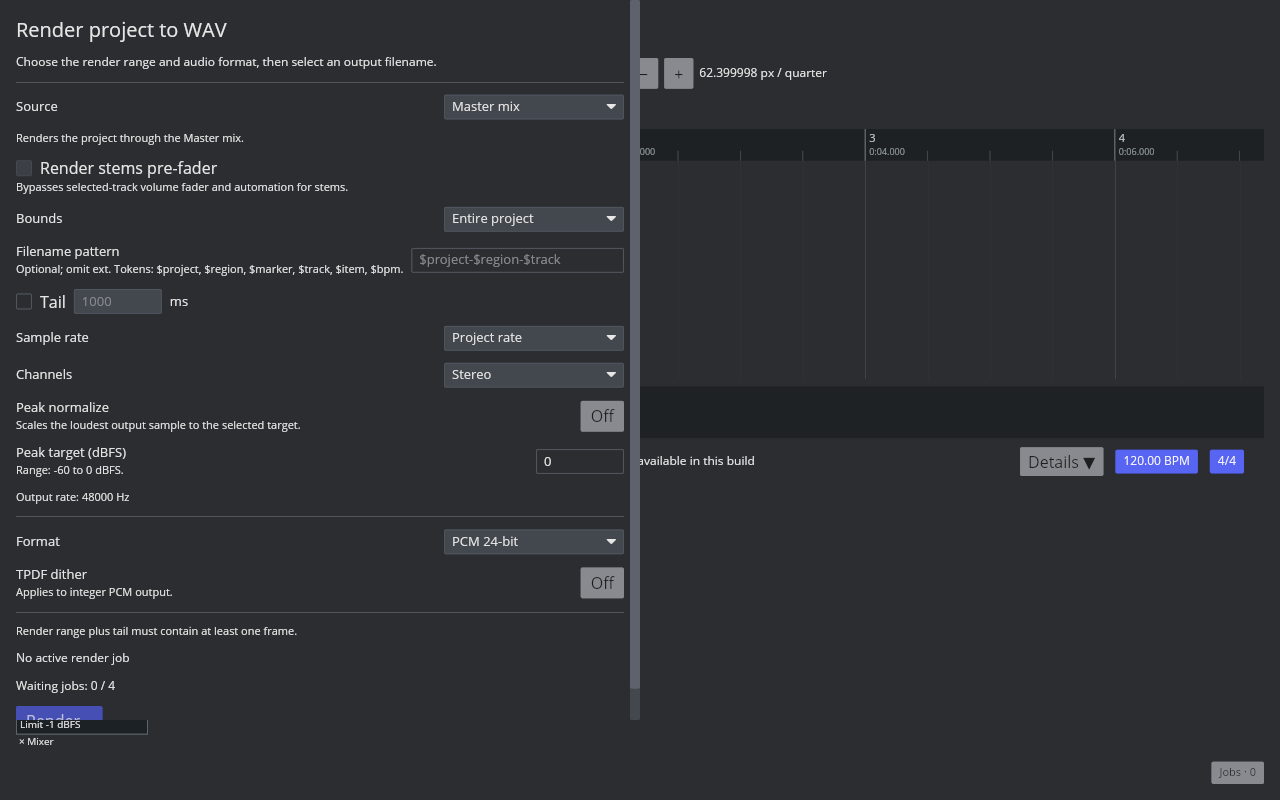
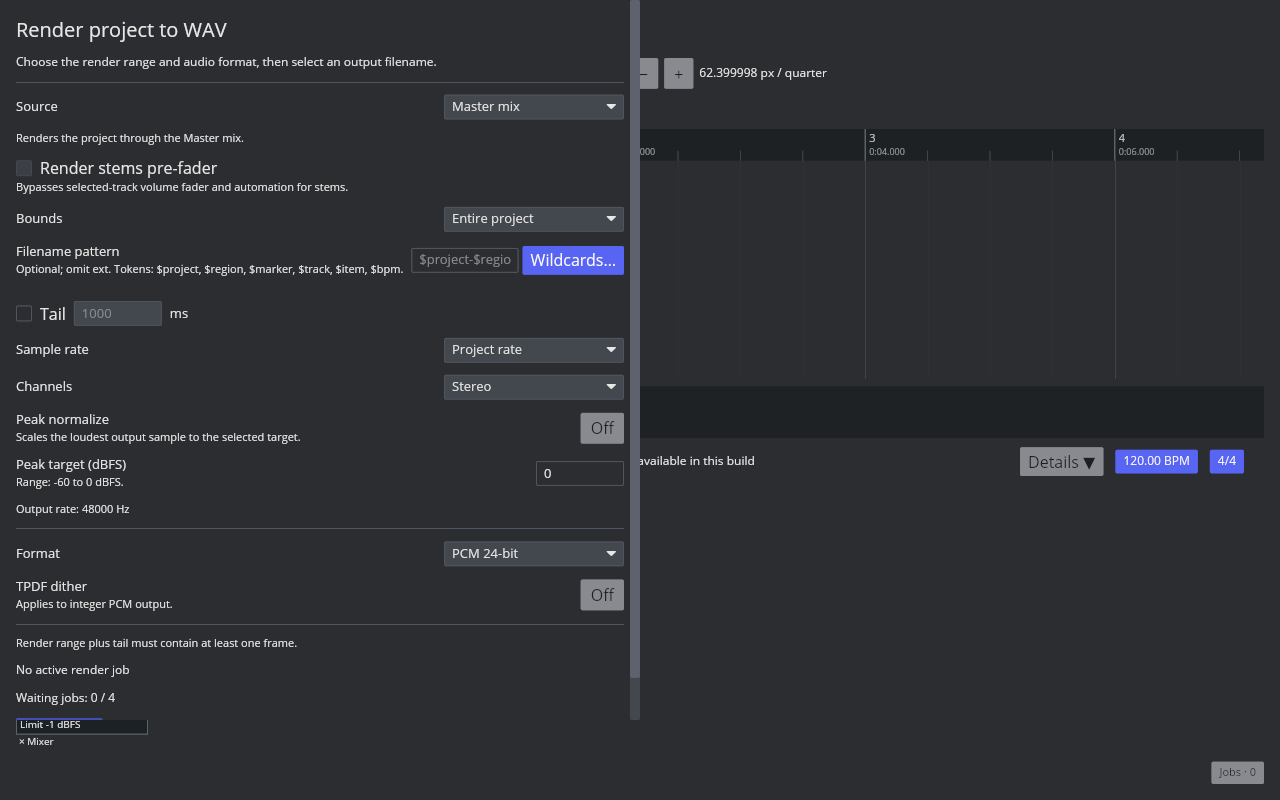
feat(render): add wildcard token picker

diff --git a/crates/aaadaw/src/app/audio_export.rs b/crates/aaadaw/src/app/audio_export.rs
@@ -41,6 +41,38 @@ pub(crate) enum RenderSource {
     RegionRenderMatrix,
 }
 
+#[derive(Clone, Copy, Debug, Eq, PartialEq)]
+pub(crate) enum RenderFilenameWildcard {
+    Project,
+    Region,
+    Marker,
+    Track,
+    Item,
+    Bpm,
+}
+
+impl RenderFilenameWildcard {
+    pub(crate) const ALL: [Self; 6] = [
+        Self::Project,
+        Self::Region,
+        Self::Marker,
+        Self::Track,
+        Self::Item,
+        Self::Bpm,
+    ];
+
+    pub(crate) const fn token(self) -> &'static str {
+        match self {
+            Self::Project => "$project",
+            Self::Region => "$region",
+            Self::Marker => "$marker",
+            Self::Track => "$track",
+            Self::Item => "$item",
+            Self::Bpm => "$bpm",
+        }
+    }
+}
+
 impl RenderSource {
     pub(crate) const ALL: [Self; 6] = [
         Self::MasterMix,
@@ -812,6 +844,7 @@ pub(super) struct RenderDialogState {
     pub(super) tail_duration_text: String,
     pub(super) stems_pre_fader: bool,
     pub(super) filename_pattern: String,
+    pub(super) wildcard_menu_open: bool,
 }
 
 #[derive(Debug)]
@@ -840,6 +873,7 @@ impl Default for RenderDialogState {
             tail_duration_text: "1000".to_owned(),
             stems_pre_fader: false,
             filename_pattern: String::new(),
+            wildcard_menu_open: false,
         }
     }
 }
@@ -2390,6 +2424,33 @@ mod tests {
         )
         .expect("region and item tokens should resolve");
         assert_eq!(item_output[0].1, Path::new("/renders/Intro-item_01.wav"));
+    }
+
+    #[test]
+    fn render_wildcard_picker_lists_and_inserts_supported_tokens() {
+        assert_eq!(
+            RenderFilenameWildcard::ALL.map(RenderFilenameWildcard::token),
+            ["$project", "$region", "$marker", "$track", "$item", "$bpm",]
+        );
+
+        let mut app = App::default();
+        let _ = app.update(Message::ToggleRenderWildcardMenu);
+        assert!(app.render_dialog.wildcard_menu_open);
+
+        let _ = app.update(Message::SetRenderFilenamePattern("$project-".to_owned()));
+        let _ = app.update(Message::InsertRenderFilenameWildcard(
+            RenderFilenameWildcard::Track,
+        ));
+        assert_eq!(app.render_dialog.filename_pattern, "$project-$track");
+        assert!(!app.render_dialog.wildcard_menu_open);
+
+        let _ = app.update(Message::InsertRenderFilenameWildcard(
+            RenderFilenameWildcard::Project,
+        ));
+        assert_eq!(
+            app.render_dialog.filename_pattern,
+            "$project-$track$project"
+        );
     }
 
     #[test]

diff --git a/crates/aaadaw/src/app/view/render.rs b/crates/aaadaw/src/app/view/render.rs
@@ -1,6 +1,6 @@
 use super::super::audio_export::{
-    RenderBounds, RenderSampleRate, RenderSource, parse_render_peak_target_centi_dbfs,
-    parse_render_tail_milliseconds,
+    RenderBounds, RenderFilenameWildcard, RenderSampleRate, RenderSource,
+    parse_render_peak_target_centi_dbfs, parse_render_tail_milliseconds,
 };
 use super::super::{App, Message, PathPickerTarget};
 use super::tokens;
@@ -174,17 +174,41 @@ pub(super) fn view(app: &App) -> Element<'_, Message> {
                 .size(11),
             ]
             .spacing(2),
-            text_input(
-                "$project-$region-$track",
-                &app.render_dialog.filename_pattern
-            )
-            .on_input(Message::SetRenderFilenamePattern)
-            .size(13)
-            .padding([4, 8])
-            .width(Length::Fill),
+            row![
+                text_input(
+                    "$project-$region-$track",
+                    &app.render_dialog.filename_pattern
+                )
+                .on_input(Message::SetRenderFilenamePattern)
+                .size(13)
+                .padding([4, 8])
+                .width(Length::Fill),
+                button("Wildcards…")
+                    .on_press(Message::ToggleRenderWildcardMenu)
+                    .padding([4, 8]),
+            ]
+            .spacing(tokens::SPACING_XS)
+            .align_y(Alignment::Center),
         ]
         .spacing(tokens::SPACING_SM)
         .align_y(Alignment::Center),
+        if app.render_dialog.wildcard_menu_open {
+            RenderFilenameWildcard::ALL
+                .into_iter()
+                .fold(
+                    row![text("Insert wildcard:").size(11)],
+                    |tokens, wildcard| {
+                        tokens.push(
+                            button(wildcard.token())
+                                .on_press(Message::InsertRenderFilenameWildcard(wildcard)),
+                        )
+                    },
+                )
+                .spacing(tokens::SPACING_XS)
+                .align_y(Alignment::Center)
+        } else {
+            row![]
+        },
         {
             let fields: Element<'_, Message> =
                 if !selected_media_items && bounds == RenderBounds::CustomTimeRange {

diff --git a/crates/aaadaw/src/app/messages.rs b/crates/aaadaw/src/app/messages.rs
@@ -1,6 +1,6 @@
 #[cfg(feature = "audio-device")]
 use super::SharedPreparedPlayback;
-use super::audio_export::{RenderBounds, RenderSampleRate, RenderSource};
+use super::audio_export::{RenderBounds, RenderFilenameWildcard, RenderSampleRate, RenderSource};
 use super::commands::CommandId;
 use super::{SharedAudioAssetManagementWorker, SharedAudioImportWorker};
 use crate::timeline::TimelineEvent;
@@ -580,6 +580,8 @@ pub(crate) enum Message {
     SetRenderTailEnabled(bool),
     SetRenderTailDuration(String),
     SetRenderFilenamePattern(String),
+    ToggleRenderWildcardMenu,
+    InsertRenderFilenameWildcard(RenderFilenameWildcard),
     FreezeTrack(TrackId),
     FreezeTrackFinished(Result<FreezeTrackResult, String>),
     UnfreezeTrack(TrackId),

diff --git a/crates/aaadaw/src/app/mod.rs b/crates/aaadaw/src/app/mod.rs
@@ -3545,6 +3545,15 @@ impl App {
             Message::SetRenderFilenamePattern(value) => {
                 self.render_dialog.filename_pattern = value;
             }
+            Message::ToggleRenderWildcardMenu => {
+                self.render_dialog.wildcard_menu_open = !self.render_dialog.wildcard_menu_open;
+            }
+            Message::InsertRenderFilenameWildcard(wildcard) => {
+                self.render_dialog
+                    .filename_pattern
+                    .push_str(wildcard.token());
+                self.render_dialog.wildcard_menu_open = false;
+            }
             Message::RecordingOffsetTextChanged(value) => {
                 self.audio_recording_offset_query = Some(value);
             }

diff --git a/docs/verification/reaper-parity/render-filename-patterns.md b/docs/verification/reaper-parity/render-filename-patterns.md
@@ -2,10 +2,10 @@
 
 Linux REAPER 7.82 / Default 7 places a `File name` pattern field and `Wildcards` button in the Render window. The captured selected-item case uses `$region-$item` and resolves to `bounds-ui-Region 2-item_02.wav`; the reference dialog and measured output are archived in [the native screenshot](images/render-selected-items-native.png) and [the output record](render-selected-items-native.tsv). The native Region Render Matrix fixture uses `$region-$track` and emits `Intro-Master.wav`, `Intro-Drums.wav`, `Intro-Guitar.wav`, and `Verse-Bass.wav`.
 
-AAADAW now provides an optional filename-pattern field in its Render window. A chosen output path supplies the directory and extension; a blank pattern retains the existing generated names. The current resolver supports `$project`, `$region`, `$marker`, `$track`, `$item`, and `$bpm`. It sanitizes characters unsafe in file names and rejects patterns that resolve multiple jobs to the same name before queueing. The Render job still publishes through the existing atomic batch writer.
+AAADAW now provides an optional filename-pattern field in its Render window and a `Wildcards…` picker immediately below it. The picker exposes the six implemented tokens: `$project`, `$region`, `$marker`, `$track`, `$item`, and `$bpm`. Selecting one appends it to the end of the pattern and closes the picker. A chosen output path supplies the directory and extension; a blank pattern retains the existing generated names. The resolver sanitizes characters unsafe in file names and rejects patterns that resolve multiple jobs to the same name before queueing. The Render job still publishes through the existing atomic batch writer.
 
-The [AAADAW window capture](fixtures/render-filename-pattern-aaadaw.png) was taken from the rebuilt desktop binary (Build ID `1f92198bb6bc4e01c9c82556cd6b62946f0bf8e6`). The reproducible [capture script](../../../scripts/reaper_parity/capture-render-filename-pattern-aaadaw.sh) drives the visible Render command with Ctrl+Alt+R. Its screenshot hash, native inputs, implementation tokens, and regression results are in the [fixture manifest](fixtures/render-filename-pattern-aaadaw.tsv).
+The [AAADAW filename-field capture](fixtures/render-filename-pattern-aaadaw.png), [expanded picker capture](fixtures/render-filename-pattern-wildcards-aaadaw.png), and [track-token insertion capture](fixtures/render-filename-pattern-wildcard-insert-aaadaw.png) were taken from the rebuilt desktop binary. The reproducible [capture script](../../../scripts/reaper_parity/capture-render-filename-pattern-aaadaw.sh) drives the visible Render command with Ctrl+Alt+R; set `AAADAW_OPEN_WILDCARDS=1` to capture the expanded picker, or `AAADAW_INSERT_WILDCARD=track` to click the visible `$track` button and capture the resulting field. Screenshot hashes, native inputs, implementation tokens, and regression results are in the [fixture manifest](fixtures/render-filename-pattern-aaadaw.tsv).
 
-The regression resolves the native `$region-$track` matrix pattern to the same four native target names, renders those jobs through AAADAW's offline audio renderer, and compares every PCM24 sample to the matching REAPER output. A second test resolves `$region-$item` to the observed `Intro-item_01.wav` form; separate checks cover `$project`, `$marker`, `$track`, `$bpm`, safe-name conversion, blank-pattern fallback, unknown literal tokens, and duplicate-name rejection. The queue test sets `$project-$track` through the Render message and checks that the queued stem paths use the expanded project and track names; it also verifies duplicate names leave the queue unchanged. Final validation passed the 662-test App suite before the matrix test was extended, then reran the changed REAPER PCM comparison and queue-path regression (1/1 each), strict all-target App Clippy (`-D warnings`), and the stripped-debug desktop build. Formatting also passes.
+The regression resolves the native `$region-$track` matrix pattern to the same four native target names, renders those jobs through AAADAW's offline audio renderer, and compares every PCM24 sample to the matching REAPER output. A second test resolves `$region-$item` to the observed `Intro-item_01.wav` form; separate checks cover `$project`, `$marker`, `$track`, `$bpm`, safe-name conversion, blank-pattern fallback, unknown literal tokens, and duplicate-name rejection. The queue test sets `$project-$track` through the Render message and checks that the queued stem paths use the expanded project and track names; it also verifies duplicate names leave the queue unchanged. The picker regression covers all six visible tokens, appending the selected token, and closing the menu. Final validation passed all 663 App tests, strict all-target App Clippy (`-D warnings`), the stripped-debug desktop build, rustfmt, diff checks, and fixture/hash validation.
 
-This does not complete REAPER Wildcards parity. AAADAW has no Wildcards chooser or pattern-preset UI, its filename field is optional and not saved across launches, and other REAPER tokens, ordering, escaping, date/time values, track numbering, collision prompts, and the remaining source/range combinations are unverified. `$marker` and `$bpm` currently have implementation tests but no matching native render fixture. `RENDER-WILDCARDS-001`, `RENDER-SOURCE-001`, and `UI-028` remain `in_progress`.
+This does not complete REAPER Wildcards parity. The picker only exposes the six implemented tokens and appends at the end of the pattern; insertion at the caret or over a selection, the full REAPER token set, ordering and escaping rules, date/time values, track numbering, pattern presets and cross-launch persistence, native collision prompts, and the remaining source/range combinations are open. `$marker` and `$bpm` have implementation tests but no matching native render fixture. `RENDER-WILDCARDS-001`, `RENDER-SOURCE-001`, and `UI-028` remain `in_progress`.

diff --git a/docs/verification/reaper-parity/render-source.md b/docs/verification/reaper-parity/render-source.md
@@ -20,7 +20,7 @@ AAADAW stores a Master-mix boolean and ordered TrackId list per project region i
 
 The Render Source menu now offers `Region Render Matrix` with All/Selected Project Regions bounds. The existing atomic batch-render queue builds one output for each assigned Master row and one for each assigned track row, and stores per-region ranges in each job. The native Linux REAPER 7.82 render action produced four outputs for this fixture: `Intro-Master.wav`, `Intro-Drums.wav`, `Intro-Guitar.wav`, and `Verse-Bass.wav`; unassigned target/region pairs produced no files. All four files were 48 kHz stereo PCM24 with 96,000 frames. The [source generator](../../../scripts/reaper_parity/generate-region-render-matrix-sources.py), [ReaScript render probe](../../../scripts/reaper_parity/probe-region-render-matrix-render.lua), [native output table](fixtures/region-render-matrix-render-native.tsv), and [PCM fixtures](fixtures/region-render-matrix-render/) preserve the setup, metadata, hashes, and payloads. An AAADAW regression renders the same four target jobs and compares every PCM payload byte-for-byte with the corresponding native fixture; output format, frame count, and sample values also match exactly.
 
-The Render window now has an optional filename-pattern field supporting `$project`, `$region`, `$marker`, `$track`, `$item`, and `$bpm`. For the tested `$region-$track` pattern, AAADAW emits the native names `Intro-Master.wav`, `Intro-Drums.wav`, `Intro-Guitar.wav`, and `Verse-Bass.wav`; its offline renderer still matches all four native PCM payloads byte-for-byte. The native `$region-$item` case resolves to `bounds-ui-Region 2-item_02.wav`, and AAADAW now resolves the same token pair to the observed item-name form. Blank patterns keep the existing generated output names. The Wildcards chooser, complete token and escaping rules, preset persistence, and more source/range combinations remain open; see [filename wildcard verification](render-filename-patterns.md). The simple fixture confirms the tested track signal and Master sum, but not pre/post-fader settings, automation, folders/sends, or FX routing. Those gaps keep `RENDER-SOURCE-001` and `PROJECT-REGIONS-001` `in_progress`.
+The Render window now has an optional filename-pattern field and a visible `Wildcards…` picker for `$project`, `$region`, `$marker`, `$track`, `$item`, and `$bpm`; choosing a token appends it to the pattern. For the tested `$region-$track` pattern, AAADAW emits the native names `Intro-Master.wav`, `Intro-Drums.wav`, `Intro-Guitar.wav`, and `Verse-Bass.wav`; its offline renderer still matches all four native PCM payloads byte-for-byte. The native `$region-$item` case resolves to `bounds-ui-Region 2-item_02.wav`, and AAADAW now resolves the same token pair to the observed item-name form. Blank patterns keep the existing generated output names. Caret/selection insertion, the complete token and escaping rules, preset persistence, and more source/range combinations remain open; see [filename wildcard verification](render-filename-patterns.md). The simple fixture confirms the tested track signal and Master sum, but not pre/post-fader settings, automation, folders/sends, or FX routing. Those gaps keep `RENDER-SOURCE-001` and `PROJECT-REGIONS-001` `in_progress`.
 
 ### Selected media items
 
